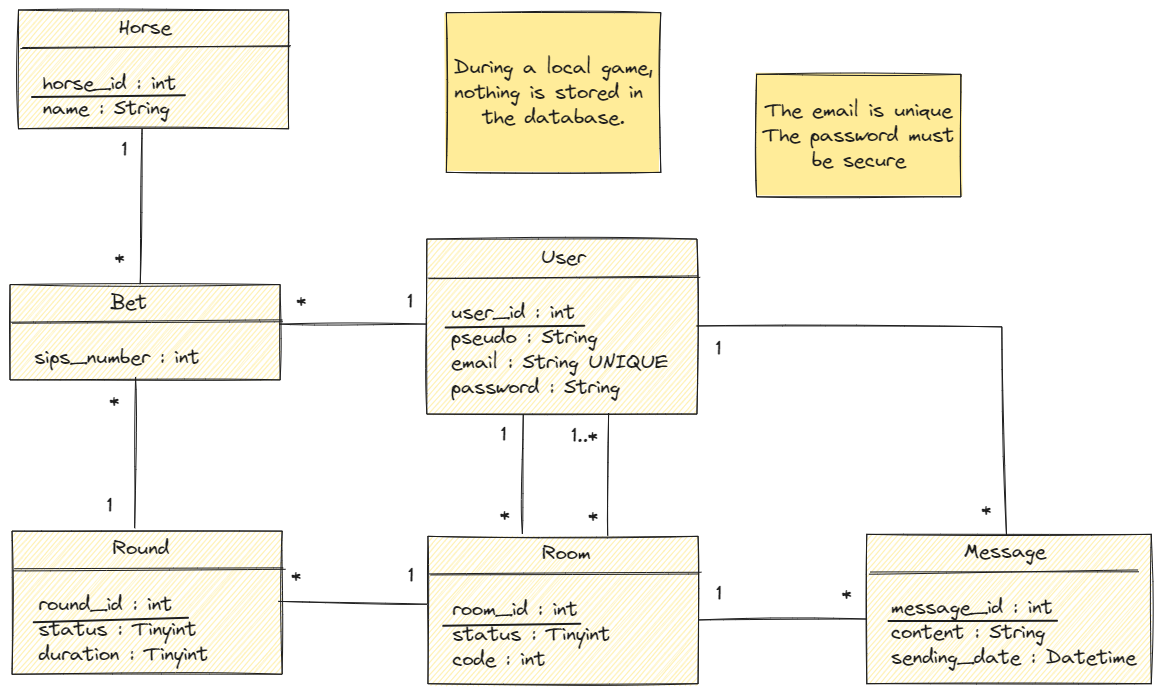
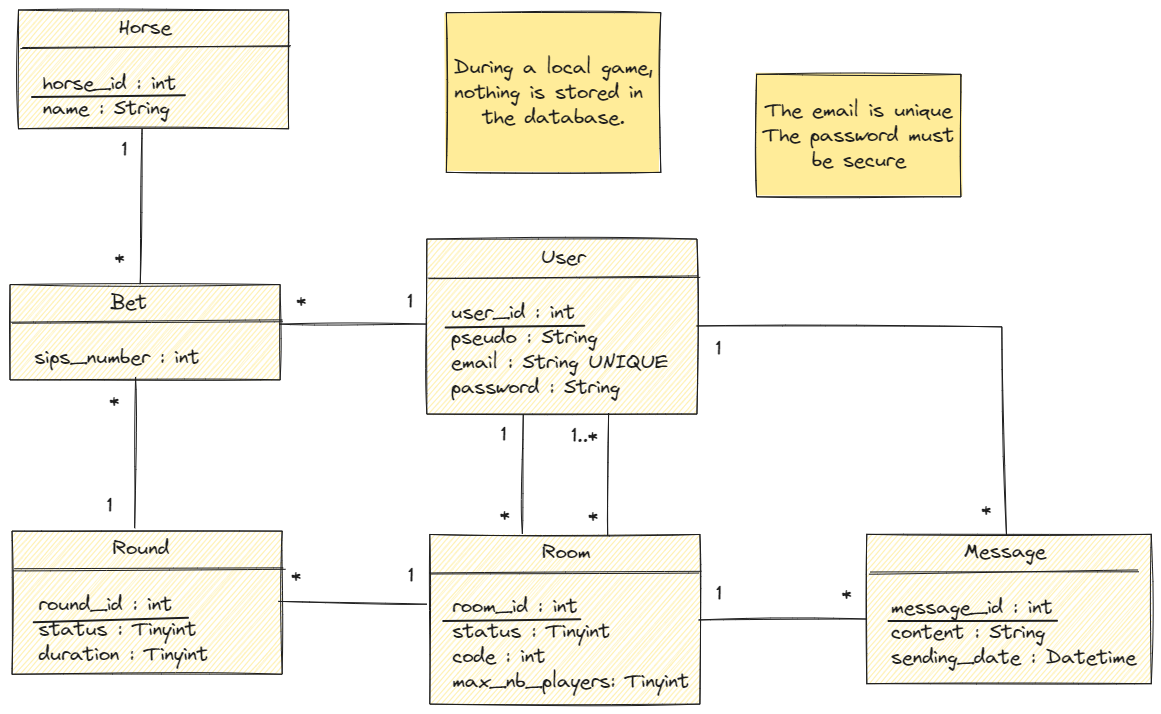
📦 NEW: Add maxNbPlayers in Room table & update api

diff --git a/api/src/controllers/roomCtrl.js b/api/src/controllers/roomCtrl.js
@@ -1,32 +1,32 @@
 const modelRoom = require("../models/roomModel");
 
 exports.create = (req, res) => {
-  const { userIds, adminId } = req.body;
-  if (userIds && adminId) {
+  const { maxNbPlayers, userIds, adminId } = req.body;
+  if (maxNbPlayers && userIds && adminId) {
     if (!Array.isArray(userIds) || !userIds.every(Number.isFinite)) {
       return res.status(400).json({
         error: "userIds must be an array of numbers only",
         errorCode: 2000,
       });
-    } else if (typeof adminId !== "number") {
+    } else if (typeof adminId !== "number" || typeof maxNbPlayers !== "number") {
       return res.status(400).json({
-        error: "adminId must be a number",
+        error: "adminId & maxNbPlayers must be numbers",
         errorCode: 2001,
       });
     } else {
-      createRoom(req, res, userIds, adminId);
+      createRoom(req, res, maxNbPlayers, userIds, adminId);
     }
   } else {
     res.status(400).json({ error: "missing data", errorCode: 2004 });
   }
 };
 
-function createRoom(req, res, userIds, adminId) {
+function createRoom(req, res, maxNbPlayers, userIds, adminId) {
   const db = req.db;
   const code = Math.floor(100000 + Math.random() * 900000);
-  const newRoom = new modelRoom(1, code, adminId, userIds);
+  const newRoom = new modelRoom(1, code, maxNbPlayers, adminId, userIds);
   const sqlQueryRoom =
-    "INSERT INTO Room (status, code, admin_id) VALUES (?, ?, ?)";
+    "INSERT INTO Room (status, code, max_nb_players, admin_id) VALUES (?, ?, ?, ?)";
   const sqlQueryUserRoom =
     "INSERT INTO User_Room (user_id, room_id) VALUES (?, ?)";
   const sqlQueryCodeRoom = "SELECT * FROM Room WHERE room_id = ?";
@@ -36,7 +36,7 @@ function createRoom(req, res, userIds, adminId) {
     if (results.length === 0) {
       db.run(
         sqlQueryRoom,
-        [newRoom.status, newRoom.code, newRoom.adminId],
+        [newRoom.status, newRoom.code, newRoom.maxNbPlayers, newRoom.adminId],
         function (err) {
           if (err) {
             return res
@@ -74,9 +74,10 @@ function createRoom(req, res, userIds, adminId) {
                 } else {
                   res.status(200).json({
                     message: "Room created successfully",
-                    roomdId: roomId,
+                    roomId: roomId,
                     status: results[0].status,
                     code: results[0].code,
+                    maxNbPlayers: results[0].max_nb_players,
                     adminId: results[0].admin_id,
                   });
                 }
@@ -89,7 +90,7 @@ function createRoom(req, res, userIds, adminId) {
       );
     } else {
       //Retry with a new code
-      createRoom(req, res, userIds, adminId);
+      createRoom(req, res, maxNbPlayers, userIds, adminId);
     }
   });
 }
@@ -108,6 +109,7 @@ exports.get = (req, res) => {
           id: results[0].room_id,
           status: results[0].status,
           code: results[0].code,
+          maxNbPlayers: results[0].max_nb_players,
           adminId: results[0].admin_id,
         });
       }

diff --git a/api/src/models/roomModel.js b/api/src/models/roomModel.js
@@ -1,7 +1,8 @@
 class Room {
-  constructor(status, code, adminId, userIds) {
+  constructor(status, code, maxNbPlayers, adminId, userIds) {
     this.status = status;
     this.code = code;
+    this.maxNbPlayers = maxNbPlayers;
     this.adminId = adminId;
     this.userIds = userIds;
   }
